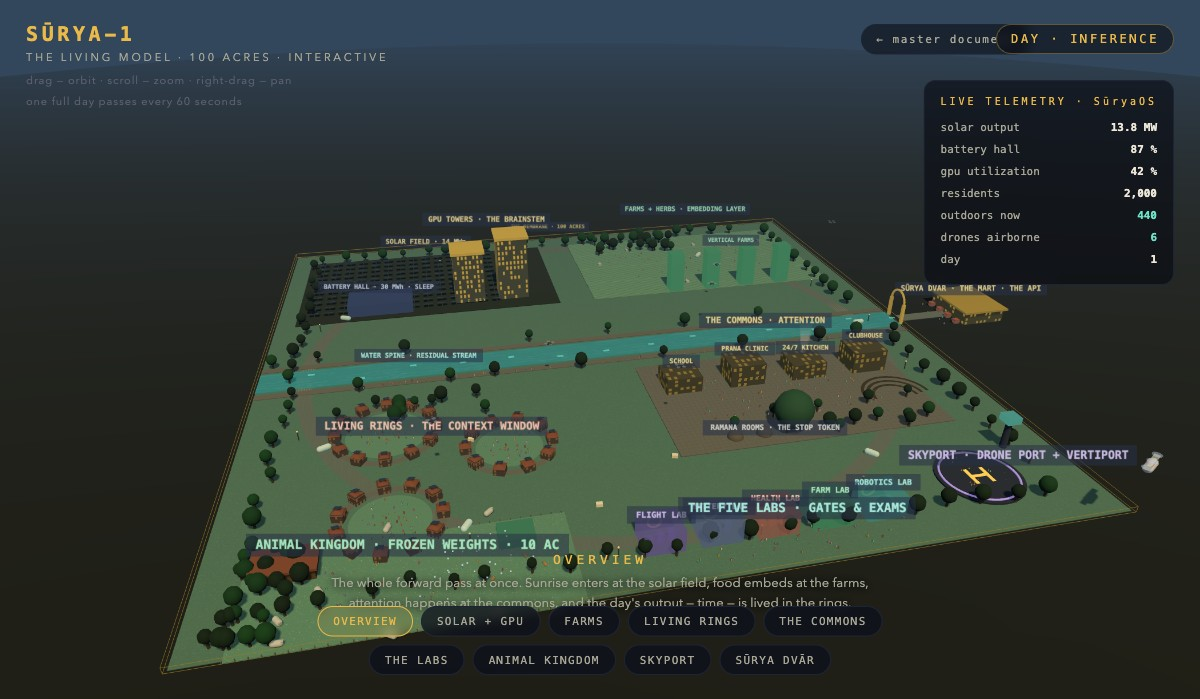
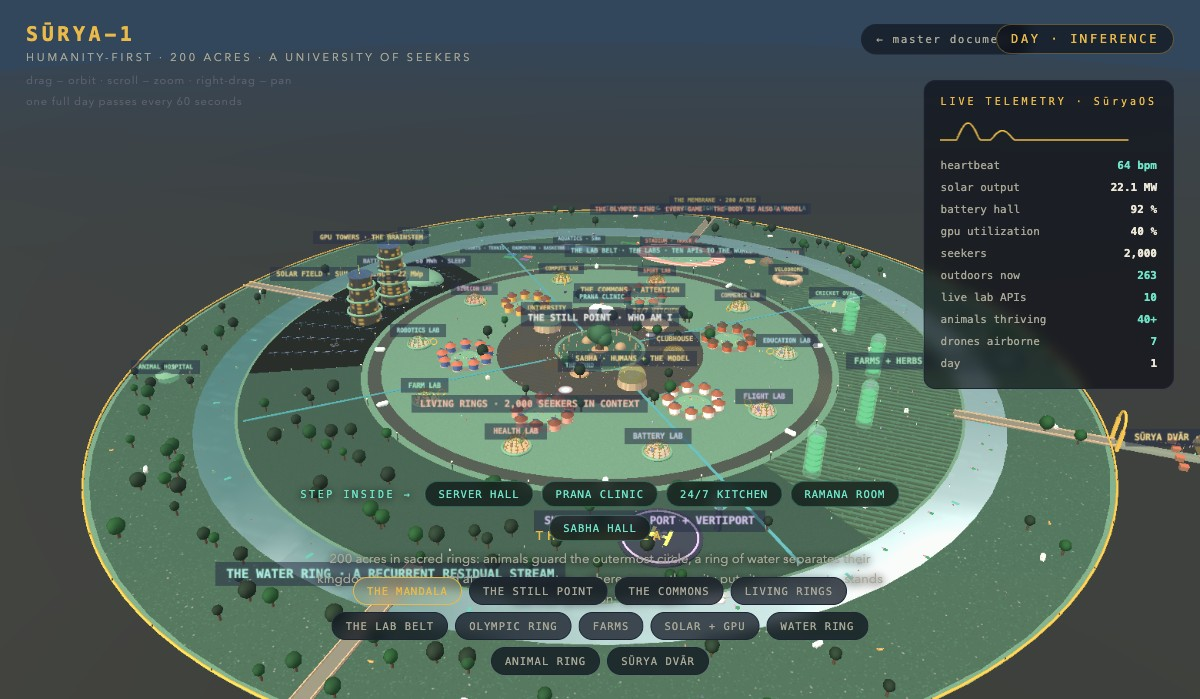
v6 — the beauty pass: prana pulse heartbeat + ECG telemetry, dawn/dusk skies, heritage lime-plaster palettes, stone circle + kund + brass finials, rangoli, prayer flags, dusk diyas on the water ring, flowers everywhere, mobile perf scaling, scroll progress + reveals

diff --git a/township-3d.html b/township-3d.html
@@ -47,7 +47,15 @@
   #back:hover{color:var(--gold);border-color:var(--gold)}
   #loading{position:fixed;inset:0;display:flex;align-items:center;justify-content:center;background:#05070f;z-index:50;
     font-family:var(--mono);color:var(--gold);font-size:13px;letter-spacing:.3em;transition:opacity .8s}
-  @media(max-width:700px){#hint,#back,#telem{display:none}#mode{top:auto;bottom:208px;right:50%;transform:translateX(50%)}}
+  @media(max-width:700px){
+    #hint,#back,#telem{display:none}
+    #mode{top:auto;bottom:214px;right:50%;transform:translateX(50%)}
+    #views,#inside{flex-wrap:nowrap;overflow-x:auto;justify-content:flex-start;max-width:100vw;padding:0 12px 4px;scrollbar-width:none}
+    #views::-webkit-scrollbar,#inside::-webkit-scrollbar{display:none}
+    #views button,#inside button{flex:0 0 auto;padding:9px 15px;font-size:11px}
+    #info{bottom:96px}
+    #info .zdesc{font-size:12px}
+  }
 </style>
 </head>
 <body>
@@ -59,6 +67,8 @@
 <div class="hud" id="mode">DAY · INFERENCE</div>
 <div class="hud" id="telem">
   <div class="h">LIVE TELEMETRY · SūryaOS</div>
+  <canvas id="tEcg" width="190" height="30" style="display:block;margin:0 0 8px"></canvas>
+  <div class="row"><span>heartbeat</span><b id="tBpm" class="ok">— bpm</b></div>
   <div class="row"><span>solar output</span><b id="tSolar">— MW</b></div>
   <div class="row"><span>battery hall</span><b id="tBatt">— %</b></div>
   <div class="row"><span>gpu utilization</span><b id="tGpu">— %</b></div>
@@ -89,10 +99,11 @@ if (new URLSearchParams(location.search).get('hud')==='min'){
 
 /* ── renderer / scene ── */
 const container=document.getElementById('scene');
-const renderer=new THREE.WebGLRenderer({antialias:true});
-renderer.setPixelRatio(Math.min(devicePixelRatio,1.75));
+const isMobile=Math.min(innerWidth,innerHeight)<760||(navigator.maxTouchPoints>1&&innerWidth<1100);
+const renderer=new THREE.WebGLRenderer({antialias:!isMobile});
+renderer.setPixelRatio(Math.min(devicePixelRatio,isMobile?1.3:1.75));
 renderer.setSize(innerWidth,innerHeight);
-renderer.shadowMap.enabled=true;renderer.shadowMap.type=THREE.PCFSoftShadowMap;
+renderer.shadowMap.enabled=!isMobile;renderer.shadowMap.type=THREE.PCFSoftShadowMap;
 container.appendChild(renderer.domElement);
 const scene=new THREE.Scene();
 scene.fog=new THREE.FogExp2(0x05070f,0.00038);
@@ -231,16 +242,28 @@ for(const a of [45,135,225,315]){const th=a*D2R;
  for(const [dx,dz,r,h] of [[0,0,13,21],[7,4,9,17],[-7,-3,10,18],[2,-8,8,16]]){
   const cr=M(new THREE.SphereGeometry(r,12,12),lam(0x24502f));cr.position.set(dx,h,dz);scene.add(cr);}
  for(const [dx,dz] of [[5,2],[-4,3],[1,-5]]){const root=M(new THREE.CylinderGeometry(.3,.5,9),lam(0x4a3520));root.position.set(dx,4.5,dz);scene.add(root);}
- /* three ramana domes around the tree */
+ /* sandstone plinth under the banyan — built for ten thousand years */
+ const plinth=M(new THREE.CylinderGeometry(9,10,1.2,24),new THREE.MeshStandardMaterial({color:0xa8835a,roughness:1}));
+ plinth.position.set(0,.6,0);scene.add(plinth);
+ /* three ramana domes around the tree, brass finials */
  for(const a of [90,210,330]){const [x,z]=P(a*D2R,24);
-  const dome=M(new THREE.SphereGeometry(6.5,16,12,0,Math.PI*2,0,Math.PI/2),lam(0x6b5d48));dome.position.set(x,.4,z);scene.add(dome);}
+  const dome=M(new THREE.SphereGeometry(6.5,16,12,0,Math.PI*2,0,Math.PI/2),new THREE.MeshStandardMaterial({color:0x9a7d5a,roughness:1}));dome.position.set(x,.4,z);scene.add(dome);
+  const fin=M(new THREE.SphereGeometry(.55,8,8),new THREE.MeshStandardMaterial({color:0xc9a227,metalness:.85,roughness:.25}));fin.position.set(x,7.3,z);scene.add(fin);}
+ /* the stone circle — twelve monoliths, the oldest thing humans build */
+ for(let i=0;i<12;i++){const [x,z]=P(i/12*Math.PI*2+.13,41);
+  const stone=M(new THREE.CylinderGeometry(.9,1.25,6.5+Math.sin(i*3)*1.2,5),new THREE.MeshStandardMaterial({color:0xa8835a,roughness:1}));
+  stone.position.set(x,3.2,z);stone.rotation.y=i;stone.rotation.z=(Math.sin(i*7))*.04;scene.add(stone);}
  const ql=label('THE STILL POINT · WHO AM I','#ece7d8',26);ql.position.set(0,40,0);scene.add(ql);}
-/* fountain south of center */
+/* the kund — a stepped stone well, India's oldest water architecture */
 const fountainDrops=[];
-{const basin=M(new THREE.CylinderGeometry(7,8,1.6,16),lam(0x6b5d48));basin.position.set(0,.8,60);scene.add(basin);
- const pool=M(new THREE.CylinderGeometry(6.4,6.4,.6,16),waterMat);pool.position.set(0,1.5,60);scene.add(pool);
+{const stone=new THREE.MeshStandardMaterial({color:0xa8835a,roughness:1});
+ const s1=M(new THREE.CylinderGeometry(10,10.6,1.7,20),stone);s1.position.set(0,.85,60);scene.add(s1);
+ const s2=M(new THREE.CylinderGeometry(8.2,8.6,1.2,20),stone);s2.position.set(0,.6,60);scene.add(s2);
+ const s3=M(new THREE.CylinderGeometry(6.6,6.9,.8,20),stone);s3.position.set(0,.4,60);scene.add(s3);
+ const pool=M(new THREE.CylinderGeometry(5.6,5.6,.5,20),waterMat);pool.position.set(0,.55,60);scene.add(pool);
  for(let i=0;i<16;i++){const d=new THREE.Sprite(new THREE.SpriteMaterial({color:0x9fe8dc,transparent:true,opacity:.8,depthWrite:false}));
-  d.scale.set(.9,.9,1);scene.add(d);fountainDrops.push({s:d,off:i/16});}}
+  d.scale.set(.9,.9,1);scene.add(d);fountainDrops.push({s:d,off:i/16});}
+ const kl=label('THE KUND','#6fe3c8',16);kl.position.set(0,10,60);scene.add(kl);}
 
 /* ════════════ COMMONS RING (r≈85) ════════════ */
 scene.add(sector(52,118,0,Math.PI*2,new THREE.MeshStandardMaterial({map:plazaTex,roughness:.95,side:THREE.DoubleSide}),.18));
@@ -298,18 +321,31 @@ const yogis=[];
   yogis.push({b,h});}}
 
 /* ════════════ LIVING RING — 6 seeker clusters (r≈150) ════════════ */
-function ringCluster(cx,cz,r,n){
+/* heritage palette — lime plaster colors that have survived five centuries of Indian sun */
+const heritage=[
+ {wall:0xe8e0d0,roof:0x8a4a2e,name:'lime white'},
+ {wall:0xd98a72,roof:0x6b3a26,name:'jaipur pink'},
+ {wall:0x3e5a8a,roof:0xb05a3c,name:'jodhpur indigo'},
+ {wall:0xd9a23a,roof:0x6b3a26,name:'haldi gold'},
+ {wall:0x2e6b5a,roof:0x8a4a2e,name:'peacock green'},
+ {wall:0xb3522e,roof:0x4a3520,name:'sandstone red'}];
+function ringCluster(cx,cz,r,n,pal){
  const ring=M(new THREE.RingGeometry(r-3,r+3,48).rotateX(-Math.PI/2),new THREE.MeshStandardMaterial({map:plazaTex,roughness:.95,side:THREE.DoubleSide}));
  ring.position.set(cx,.35,cz);scene.add(ring);
+ const wallM=new THREE.MeshStandardMaterial({color:pal.wall,roughness:.9});
+ const stoneM=new THREE.MeshStandardMaterial({color:0x9a8a72,roughness:1});
  for(let i=0;i<n;i++){const a=i/n*Math.PI*2,hx=cx+Math.cos(a)*r,hz=cz+Math.sin(a)*r;
-  const h=M(new THREE.CylinderGeometry(5,5.4,6.5,8),woodMat);h.position.set(hx,3.3,hz);h.rotation.y=-a;scene.add(h);
-  const roof=M(new THREE.ConeGeometry(7,4.4,8),lam(0x8a4a2e));roof.position.set(hx,8.7,hz);scene.add(roof);
+  const base=M(new THREE.CylinderGeometry(5.7,6,1,8),stoneM);base.position.set(hx,.5,hz);scene.add(base);
+  const h=M(new THREE.CylinderGeometry(5,5.4,6.5,8),wallM);h.position.set(hx,4.2,hz);h.rotation.y=-a;scene.add(h);
+  const trim=M(new THREE.TorusGeometry(5.2,.22,6,16).rotateX(Math.PI/2),new THREE.MeshStandardMaterial({color:0xc9a227,metalness:.7,roughness:.35}));
+  trim.position.set(hx,7.3,hz);scene.add(trim);
+  const roof=M(new THREE.ConeGeometry(7,4.4,8),lam(pal.roof));roof.position.set(hx,9.6,hz);scene.add(roof);
   const sp=M(new THREE.BoxGeometry(5,.3,5),new THREE.MeshStandardMaterial({map:panelTex,metalness:.6,roughness:.3}));
-  sp.position.set(hx,11.2,hz);sp.rotation.x=-.3;sp.rotation.y=-a;scene.add(sp);}
+  sp.position.set(hx,12.1,hz);sp.rotation.x=-.3;sp.rotation.y=-a;scene.add(sp);}
  const g=M(new THREE.CircleGeometry(r-8,32).rotateX(-Math.PI/2),new THREE.MeshStandardMaterial({map:meadowTex,roughness:.95}));
  g.position.set(cx,.3,cz);scene.add(g);}
 const clusterCenters=[];
-for(let i=0;i<6;i++){const [x,z]=P(i*60*D2R+30*D2R,152);clusterCenters.push([x,z]);ringCluster(x,z,26,9);}
+for(let i=0;i<6;i++){const [x,z]=P(i*60*D2R+30*D2R,152);clusterCenters.push([x,z]);ringCluster(x,z,26,9,heritage[i]);}
 {const rl=label('LIVING RINGS · 2,000 SEEKERS IN CONTEXT','#f0916f',22);rl.position.set(0,30,180);scene.add(rl);}
 
 /* ════════════ LAB BELT — 10 domes, 10 APIs (r≈210) ════════════ */
@@ -329,6 +365,7 @@ labDefs.forEach((L,i)=>{
  const fo=M(new THREE.SphereGeometry(2.2,8,8),lam(0x3f8a4e));fo.position.set(x+3,5.8,z-3);scene.add(fo);
  const [gx,gz]=P(th,193);
  const gate=M(new THREE.TorusGeometry(3.8,.6,8,24),glowMat(0x9c7a1f,0xe9b949,.6,2));gate.position.set(gx,4,gz);gate.rotation.y=-th;scene.add(gate);
+ const fin=M(new THREE.SphereGeometry(.6,8,8),new THREE.MeshStandardMaterial({color:0xc9a227,metalness:.85,roughness:.25}));fin.position.set(x,13.4,z);scene.add(fin);
  const l=label(L.n+' LAB','#'+L.c.toString(16).padStart(6,'0'),17);l.position.set(x,18,z);scene.add(l);});
 {const ll=label('THE LAB BELT · TEN LABS · TEN APIs TO THE WORLD','#6fe3c8',22);ll.position.set(0,40,-230);scene.add(ll);}
 
@@ -536,6 +573,76 @@ for(let i=0;i<12;i++){
  g.userData={w1,w2};scene.add(g);
  birds.push({m:g,th:i/12*Math.PI*2,h:18+(i%3)*7,sp:.04+(i%3)*.012});}
 
+/* ════════════ THE BEAUTY LAYER — color, flowers, flags, diyas, the heartbeat ════════════ */
+/* rangoli — hand-drawn mandala discs at the gathering places */
+function rangoliTex(){
+ const c=document.createElement('canvas');c.width=c.height=256;const x=c.getContext('2d');
+ x.translate(128,128);
+ const cols=['#e89b2e','#d4647a','#ece7d8','#2e6b5a','#3e5a8a','#c23b2e'];
+ for(let ring=5;ring>=0;ring--){
+  x.fillStyle=cols[ring];x.beginPath();
+  const r=18+ring*18,petals=8+ring*4;
+  for(let p=0;p<=petals*8;p++){const a=p/(petals*8)*Math.PI*2;
+   const rr=r+Math.sin(a*petals)*7;
+   p===0?x.moveTo(Math.cos(a)*rr,Math.sin(a)*rr):x.lineTo(Math.cos(a)*rr,Math.sin(a)*rr);}
+  x.closePath();x.fill();}
+ x.fillStyle='#e9b949';x.beginPath();x.arc(0,0,12,0,7);x.fill();
+ const t=new THREE.CanvasTexture(c);t.anisotropy=4;return t;}
+{const rt=rangoliTex();
+ for(const [x,z,s] of [[0,98,9],[kitchenPos[0],kitchenPos[1]+18,7],[540,0,8]]){
+  const r=new THREE.Mesh(new THREE.CircleGeometry(s,32).rotateX(-Math.PI/2),new THREE.MeshStandardMaterial({map:rt,transparent:true,roughness:.9}));
+  r.position.set(x,.42,z);r.receiveShadow=true;scene.add(r);}}
+/* flowers — instanced marigold, rose, jasmine, violet everywhere */
+{const spots=[];
+ for(let i=0;i<44;i++){const [x,z]=P(i/44*Math.PI*2,46.5);spots.push([x,z]);}
+ for(let i=0;i<40;i++){const [x,z]=P(Math.random()*Math.PI*2,55+Math.random()*4);spots.push([x,z]);}
+ for(let i=0;i<40;i++){const [x,z]=P(Math.random()*Math.PI*2,113+Math.random()*4);spots.push([x,z]);}
+ for(const [cx,cz] of clusterCenters)for(let i=0;i<18;i++){const a=Math.random()*Math.PI*2;spots.push([cx+Math.cos(a)*12,cz+Math.sin(a)*12]);}
+ for(const a of [0,90,180,270])for(let i=0;i<8;i++){const [x,z]=P(a*D2R,372+i*2);spots.push([x+(Math.random()-.5)*10,z+(Math.random()-.5)*10]);}
+ for(let i=0;i<16;i++){const [x,z]=P(Math.random()*Math.PI*2,66+Math.random()*3);spots.push([x,z+0]);}
+ const N=spots.length;
+ const stems=new THREE.InstancedMesh(new THREE.CylinderGeometry(.06,.06,.9),lam(0x2f6b3c),N);
+ const blooms=new THREE.InstancedMesh(new THREE.SphereGeometry(.4,6,6),new THREE.MeshStandardMaterial({roughness:.7}),N);
+ const d=new THREE.Object3D(),col2=new THREE.Color();
+ const petals=[0xe89b2e,0xd4647a,0xece7d8,0x9a6bc9,0xc23b2e,0xe9b949];
+ spots.forEach(([x,z],i)=>{
+  d.position.set(x,.45,z);d.scale.set(1,1,1);d.updateMatrix();stems.setMatrixAt(i,d.matrix);
+  const s=.8+Math.random()*.7;d.position.set(x,1,z);d.scale.set(s,s,s);d.updateMatrix();blooms.setMatrixAt(i,d.matrix);
+  blooms.setColorAt(i,col2.setHex(petals[i%6]));});
+ if(blooms.instanceColor)blooms.instanceColor.needsUpdate=true;
+ scene.add(stems,blooms);}
+/* prayer-flag strings — festival color, always in the wind */
+const flags=[];
+function flagString(x1,z1,x2,z2,h=7){
+ for(const [px,pz] of [[x1,z1],[x2,z2]]){const p=M(new THREE.CylinderGeometry(.18,.22,h),woodMat);p.position.set(px,h/2,pz);scene.add(p);}
+ const cols=[0xc23b2e,0xe9b949,0x2e6b5a,0xece7d8,0x3e5a8a];
+ for(let i=1;i<=9;i++){const u=i/10;
+  const fx=x1+(x2-x1)*u,fz=z1+(z2-z1)*u,fy=h-Math.sin(u*Math.PI)*1.4;
+  const f=new THREE.Mesh(new THREE.PlaneGeometry(1.5,1.1),new THREE.MeshStandardMaterial({color:cols[i%5],side:THREE.DoubleSide,roughness:.9}));
+  f.position.set(fx,fy-.6,fz);f.rotation.y=Math.atan2(x2-x1,z2-z1)+Math.PI/2;
+  scene.add(f);flags.push({m:f,ph:u*5});}}
+{const [ax,az]=P(10*D2R,68),[bx,bz]=P(10*D2R,112);flagString(ax,az,bx,bz);}
+{const [ax,az]=P(95*D2R,68),[bx,bz]=P(95*D2R,112);flagString(ax,az,bx,bz);}
+{const [ax,az]=P(262*D2R,296),[bx,bz]=P(278*D2R,296);flagString(ax,az,bx,bz,8);}
+flagString(536,-9,572,-9,8);
+/* diyas — at dusk, forty lamps float out onto the water ring */
+const diyaFlames=[];
+{for(let i=0;i<40;i++){const [x,z]=P(i/40*Math.PI*2+.07,394+Math.random()*26);
+  const bowl=M(new THREE.CylinderGeometry(.55,.75,.45,8),lam(0x8a4a2e));bowl.position.set(x,.85,z);scene.add(bowl);
+  const fl=new THREE.Sprite(new THREE.SpriteMaterial({color:0xffd76a,transparent:true,opacity:0,depthWrite:false}));
+  fl.scale.set(1.1,1.6,1);fl.position.set(x,1.8,z);scene.add(fl);diyaFlames.push({s:fl,off:Math.random()*7});}}
+/* THE PRANA PULSE — the town's heartbeat, radiating from the banyan */
+function heartAmp(t){const T=4,u=(t%T)/T;
+ if(u<.12)return Math.sin(u/.12*Math.PI);
+ if(u>.18&&u<.30)return .55*Math.sin((u-.18)/.12*Math.PI);
+ return 0;}
+const pulseRings=[];
+for(let i=0;i<2;i++){
+ const pr=new THREE.Mesh(new THREE.RingGeometry(.975,1,128).rotateX(-Math.PI/2),
+  new THREE.MeshBasicMaterial({color:0xffd76a,transparent:true,opacity:0,blending:THREE.AdditiveBlending,depthWrite:false,side:THREE.DoubleSide}));
+ pr.position.y=.6;scene.add(pr);pulseRings.push({m:pr,delay:i*.35});}
+const heartLight=new THREE.PointLight(0xffd76a,0,220);heartLight.position.set(0,16,0);scene.add(heartLight);
+
 /* ════════════ trees ════════════ */
 {const spots=[];
  for(let i=0;i<90;i++){const th=Math.random()*Math.PI*2;const r=432+Math.random()*70;const [x,z]=P(th,r);spots.push([x,z]);}
@@ -564,7 +671,6 @@ for(let i=0;i<12;i++){
  scene.add(poles,bulbs);}
 
 /* ════════════ people — the seekers ════════════ */
-const PEOPLE=470;
 const zones=[
  {kind:'sect',r1:10,r2:44,a1:0,a2:Math.PI*2,n:28},
  {kind:'sect',r1:56,r2:114,a1:0,a2:Math.PI*2,n:92},
@@ -577,6 +683,9 @@ const zones=[
  {kind:'rect',x:580,z:0,w:75,h:60,n:24},
  {kind:'sect',r1:380,r2:388,a1:0,a2:Math.PI*2,n:30},
 ];
+const PSCALE=isMobile?0.55:1;
+zones.forEach(z=>z.n=Math.max(2,Math.round(z.n*PSCALE)));
+const PEOPLE=zones.reduce((s,z)=>s+z.n,0)+10;
 function zonePoint(z){
  if(z.kind==='rect')return new THREE.Vector2(z.x+(Math.random()-.5)*z.w,z.z+(Math.random()-.5)*z.h);
  if(z.kind==='circ'){const a=Math.random()*Math.PI*2,r=Math.sqrt(Math.random())*z.r;
@@ -797,10 +906,13 @@ insideEl.appendChild(exitBtn);
 
 /* ════════════ animate ════════════ */
 const DAY=60;
-const skyDay=new THREE.Color(0x32465c),skyNight=new THREE.Color(0x04050c);
+const skyDay=new THREE.Color(0x32465c),skyNight=new THREE.Color(0x04050c),duskSky=new THREE.Color(0xc96a42);
+const duskSun=new THREE.Color(0xff8a4a),daySun=new THREE.Color(0xffe9b0);
 const modeEl=document.getElementById('mode');
 const tSolar=document.getElementById('tSolar'),tBatt=document.getElementById('tBatt'),
       tGpu=document.getElementById('tGpu'),tOut=document.getElementById('tOut'),tDay=document.getElementById('tDay');
+const tBpm=document.getElementById('tBpm');
+const ecgCv=document.getElementById('tEcg'),ecgCtx=ecgCv?ecgCv.getContext('2d'):null;
 const clock=new THREE.Clock();
 let batt=72,lastTelem=0;
 const dummy=new THREE.Object3D();
@@ -843,8 +955,12 @@ function animate(){
  moonMesh.position.copy(moonLight.position).multiplyScalar(1.5);
  moonMesh.material.opacity=(1-day)*.95;
  hemi.intensity=.15+.75*day;
- renderer.setClearColor(skyNight.clone().lerp(skyDay,day));
- scene.fog.color.copy(skyNight.clone().lerp(skyDay,day));
+ /* dawn + dusk: the sky catches fire twice a day */
+ const duskF=Math.max(0,1-Math.abs(sunY)*4.5)*(sunY>-.2?1:0);
+ const sky=skyNight.clone().lerp(skyDay,day).lerp(duskSky,duskF*.55);
+ renderer.setClearColor(sky);
+ scene.fog.color.copy(sky);
+ sunLight.color.copy(daySun).lerp(duskSun,duskF*.85);
  starMat.opacity=(1-day)*.9;
  modeEl.textContent=day>.08?'DAY · INFERENCE':'NIGHT · TRAINING';
  modeEl.style.color=day>.08?'#e9b949':'#8fa0c8';
@@ -967,8 +1083,25 @@ function animate(){
   dp.p.position.set(INT_X+Math.cos(a)*9,5.4+Math.sin(t*.9+dp.off)*.5,dp.z0+Math.sin(a)*9);
   dp.p.lookAt(INT_X,5,dp.z0);}
 
+ /* THE PRANA PULSE — lub-dub from the banyan to the membrane */
+ const hAmp=heartAmp(t);
+ heartLight.intensity=8+hAmp*150;
+ for(const pr of pulseRings){const T=4,u=(((t-pr.delay)%T)+T)%T/T;
+  const travel=Math.min(u/.66,1);
+  const rad=46+travel*(512-46);
+  pr.m.scale.set(rad,1,rad);
+  pr.m.material.opacity=u<.66?(1-travel)*.42*(.45+.55*(1-day)):0;}
+ if(ecgCtx){ecgCtx.clearRect(0,0,190,30);ecgCtx.strokeStyle='#e9b949';ecgCtx.lineWidth=1.6;ecgCtx.beginPath();
+  for(let px=0;px<=188;px+=2){const a2=heartAmp(t-(188-px)*.021);const py=24-a2*17;
+   px===0?ecgCtx.moveTo(px,py):ecgCtx.lineTo(px,py);}
+  ecgCtx.stroke();}
+ /* diyas float out at dusk; flags never stop */
+ for(const df of diyaFlames)df.s.material.opacity=(1-day)*(.6+.4*Math.sin(t*7+df.off));
+ for(const f of flags)f.m.rotation.x=Math.sin(t*2.2+f.ph)*.22;
+
  batt=THREE.MathUtils.clamp(batt+(day>.15?dt*1.1:-dt*.85),18,100);
  if(t-lastTelem>.4){lastTelem=t;
+  if(tBpm)tBpm.textContent=(day>.08?64:52)+' bpm';
   tSolar.textContent=(22.4*day*(0.93+Math.random()*.07)).toFixed(1)+' MW';
   tBatt.textContent=Math.round(batt)+' %';
   tGpu.textContent=Math.round(day>.08?34+8*Math.random():92+6*Math.random())+' %';

diff --git a/index.html b/index.html
@@ -181,6 +181,13 @@
   .seal{width:110px;height:110px;margin:60px auto 0}
   footer{padding:64px 0 86px;text-align:center;font-family:var(--mono);font-size:12px;color:var(--faint);letter-spacing:.16em;text-transform:uppercase;line-height:2}
 
+  html{scroll-behavior:smooth}
+  #progress{position:fixed;top:0;left:0;height:3px;width:0;z-index:90;
+    background:linear-gradient(90deg,var(--gold),#f5d77a);box-shadow:0 0 12px rgba(233,185,73,.5)}
+  section.rev{opacity:0;transform:translateY(26px);transition:opacity .9s ease,transform .9s ease}
+  section.rev.vis{opacity:1;transform:none}
+  @media(prefers-reduced-motion:reduce){section.rev{opacity:1;transform:none;transition:none}}
+
   @media(max-width:800px){
     .page{padding:0 22px}
     figure{margin:38px -22px}
@@ -195,6 +202,7 @@
 </head>
 <body>
 
+<div id="progress"></div>
 <canvas id="motes"></canvas>
 
 <div class="page">
@@ -779,6 +787,17 @@ for (let i = 0; i < 46; i++) motes.push({
   }
   requestAnimationFrame(tick);
 })(0);
+
+// scroll progress + gentle section reveals
+const prog = document.getElementById('progress');
+addEventListener('scroll', () => {
+  const h = document.documentElement;
+  prog.style.width = (h.scrollTop / (h.scrollHeight - h.clientHeight) * 100) + '%';
+}, {passive: true});
+const io = new IntersectionObserver(es => {
+  for (const e of es) if (e.isIntersecting){ e.target.classList.add('vis'); io.unobserve(e.target); }
+}, {threshold: .06});
+document.querySelectorAll('section').forEach(s => { s.classList.add('rev'); io.observe(s); });
 </script>
 </body>
 </html>

diff --git a/surya-1-master.html b/surya-1-master.html
@@ -181,6 +181,13 @@
   .seal{width:110px;height:110px;margin:60px auto 0}
   footer{padding:64px 0 86px;text-align:center;font-family:var(--mono);font-size:12px;color:var(--faint);letter-spacing:.16em;text-transform:uppercase;line-height:2}
 
+  html{scroll-behavior:smooth}
+  #progress{position:fixed;top:0;left:0;height:3px;width:0;z-index:90;
+    background:linear-gradient(90deg,var(--gold),#f5d77a);box-shadow:0 0 12px rgba(233,185,73,.5)}
+  section.rev{opacity:0;transform:translateY(26px);transition:opacity .9s ease,transform .9s ease}
+  section.rev.vis{opacity:1;transform:none}
+  @media(prefers-reduced-motion:reduce){section.rev{opacity:1;transform:none;transition:none}}
+
   @media(max-width:800px){
     .page{padding:0 22px}
     figure{margin:38px -22px}
@@ -195,6 +202,7 @@
 </head>
 <body>
 
+<div id="progress"></div>
 <canvas id="motes"></canvas>
 
 <div class="page">
@@ -779,6 +787,17 @@ for (let i = 0; i < 46; i++) motes.push({
   }
   requestAnimationFrame(tick);
 })(0);
+
+// scroll progress + gentle section reveals
+const prog = document.getElementById('progress');
+addEventListener('scroll', () => {
+  const h = document.documentElement;
+  prog.style.width = (h.scrollTop / (h.scrollHeight - h.clientHeight) * 100) + '%';
+}, {passive: true});
+const io = new IntersectionObserver(es => {
+  for (const e of es) if (e.isIntersecting){ e.target.classList.add('vis'); io.unobserve(e.target); }
+}, {threshold: .06});
+document.querySelectorAll('section').forEach(s => { s.classList.add('rev'); io.observe(s); });
 </script>
 </body>
 </html>